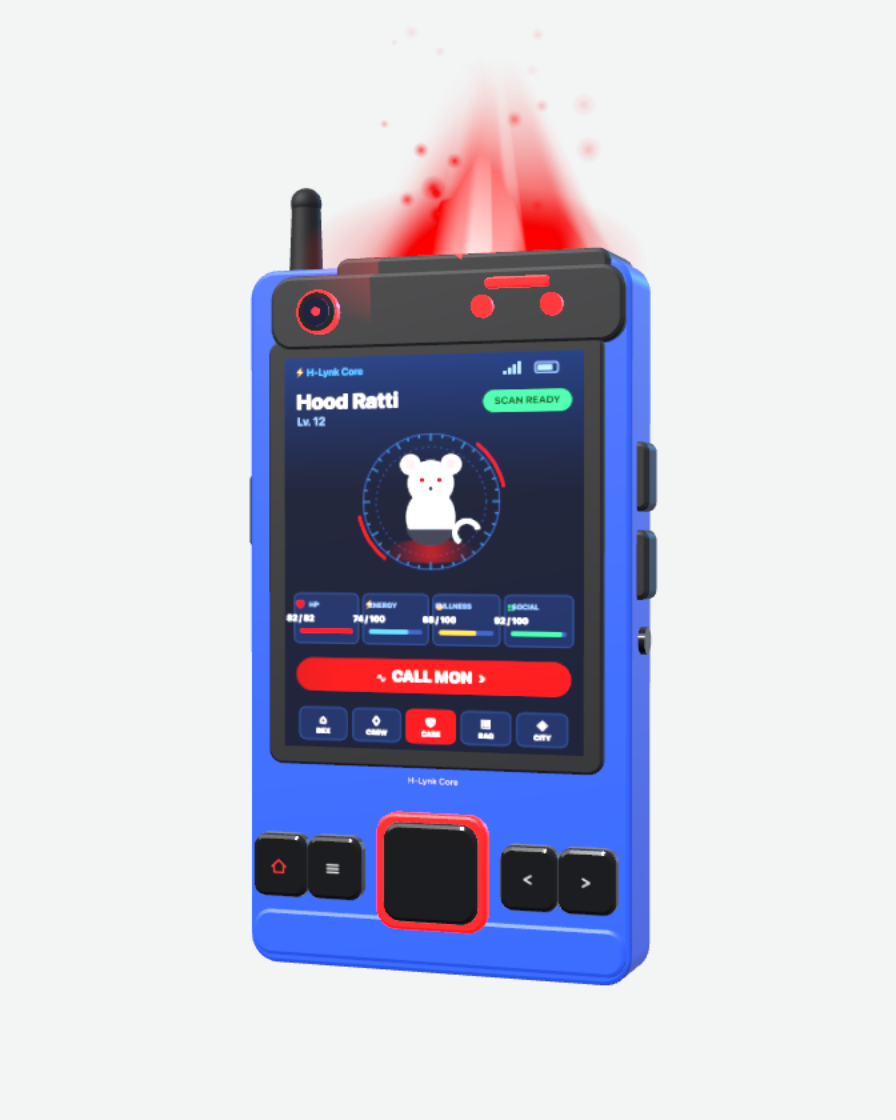
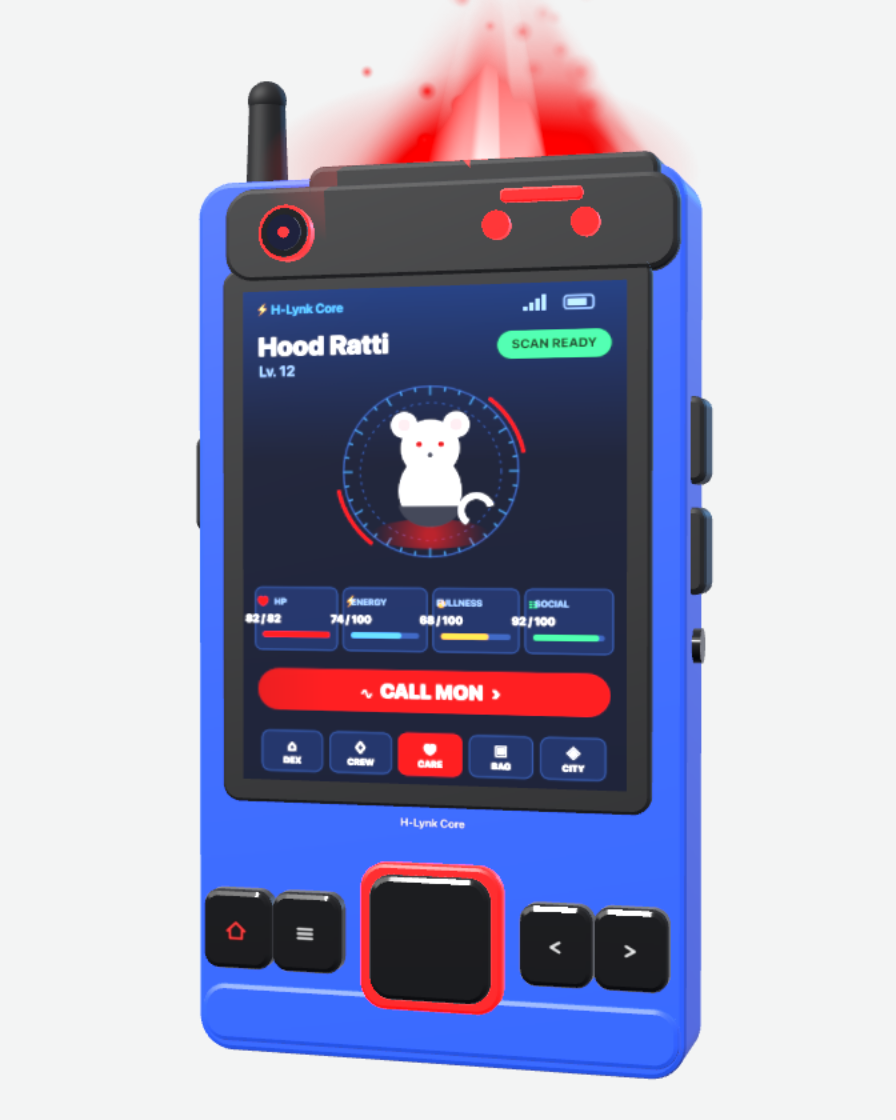
feat(web): H-Lynk device 25% larger in the stage
Generated with [Devin](https://devin.ai)

diff --git a/apps/web/components/home/device-scene.ts b/apps/web/components/home/device-scene.ts
@@ -82,6 +82,7 @@ export function createDeviceScene({ THREE, renderer }: ThreeContext, initial: De
   const device = buildDevice(THREE);
   // Dropped a touch so the scanner beam's fade lives inside the frame.
   device.group.position.y = -0.1;
+  device.group.scale.setScalar(1.25);
   scene.add(device.group);
 
   const raycaster = new THREE.Raycaster();
@@ -378,7 +379,7 @@ function buildBeam(
 ): { group: Group; tick: (time: number, boost: number) => void } {
   const { track, mat, tex } = ctx;
   const group = new THREE.Group();
-  const LENGTH = 0.58;
+  const LENGTH = 0.46;
   // Lean back a touch: it reads as projection, not a sticker, and the tip
   // clears the stage's top edge.
   group.rotation.x = -0.12;
